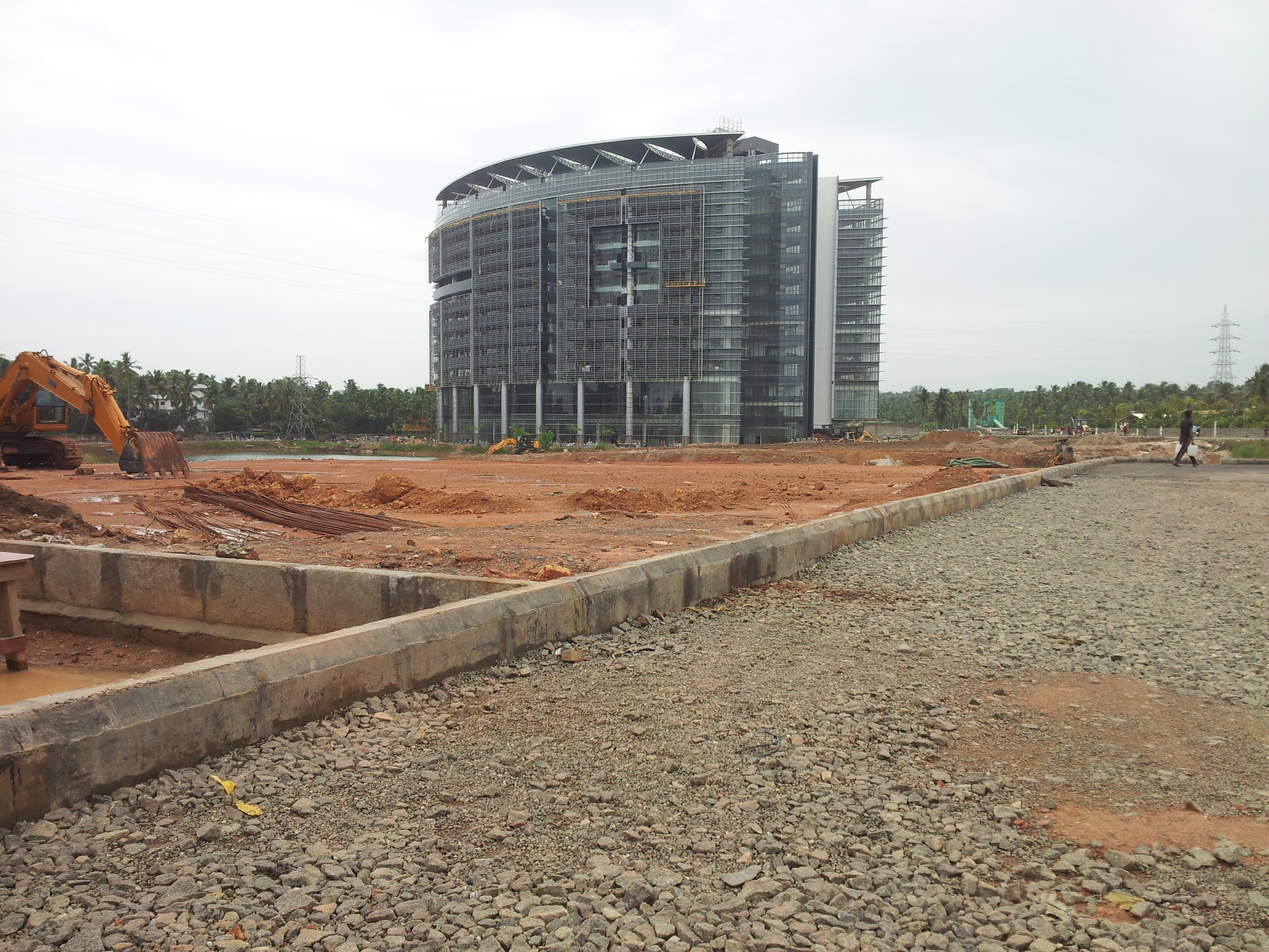
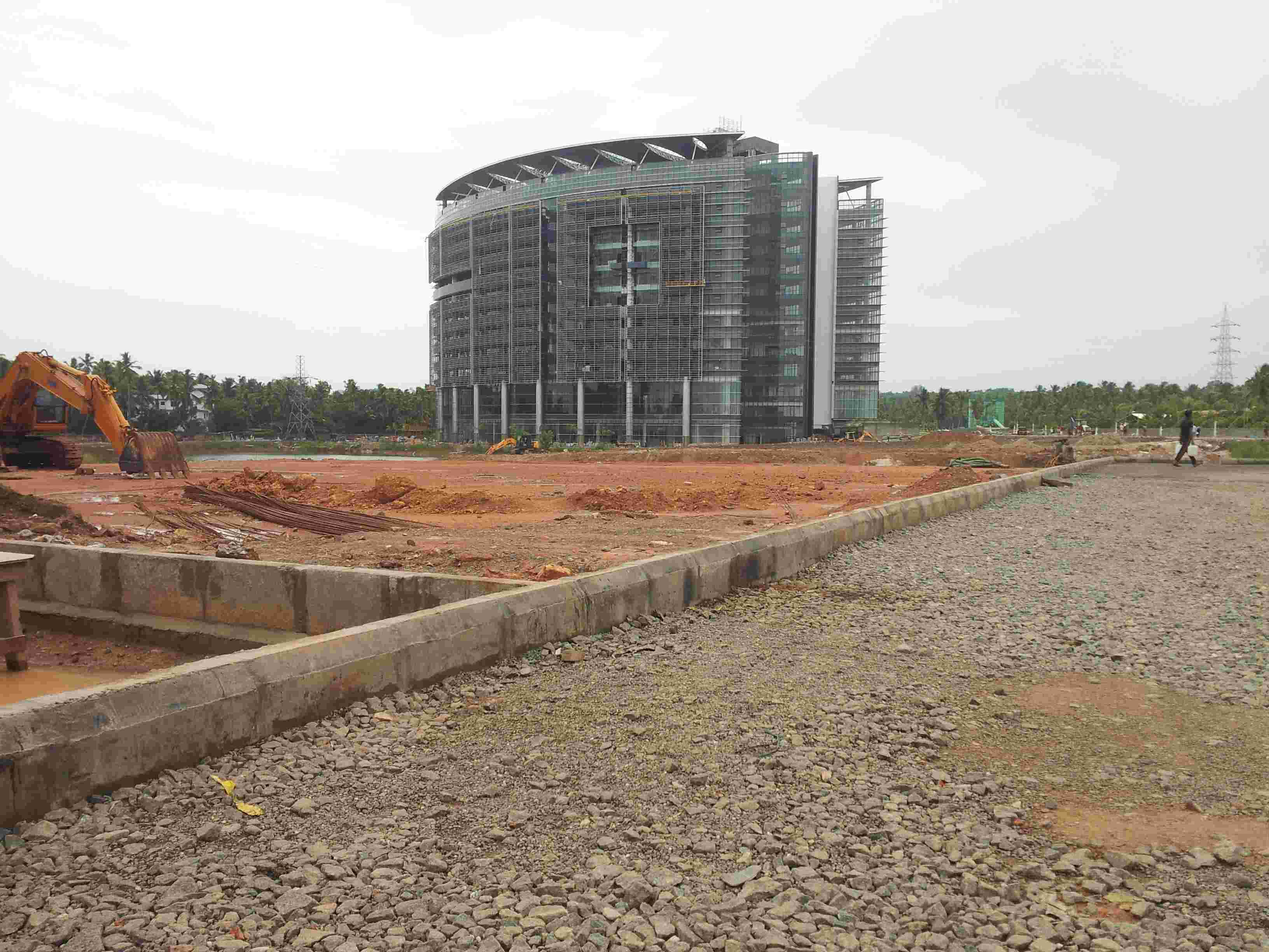
lossless image compression

diff --git a/assets/css/style.css b/assets/css/style.css
@@ -631,7 +631,7 @@ img {
 }
 
 .page-title-water {
-  background: url("../images/sample-ajs-work.png") center center/cover no-repeat local;
+  background: url("../images/sample-ajs-work.jpg") center center/cover no-repeat local;
 }
 
 .page-title-mep {
@@ -2894,7 +2894,7 @@ img {
 #0.8	about-section
 --------------------------------------------------------------*/
 .about-section {
-  background: url("../images/sample-ajs-work.png") center center/cover no-repeat local;
+  background: url("../images/sample-ajs-work.jpg") center center/cover no-repeat local;
 }
 
 .about-section .content {
